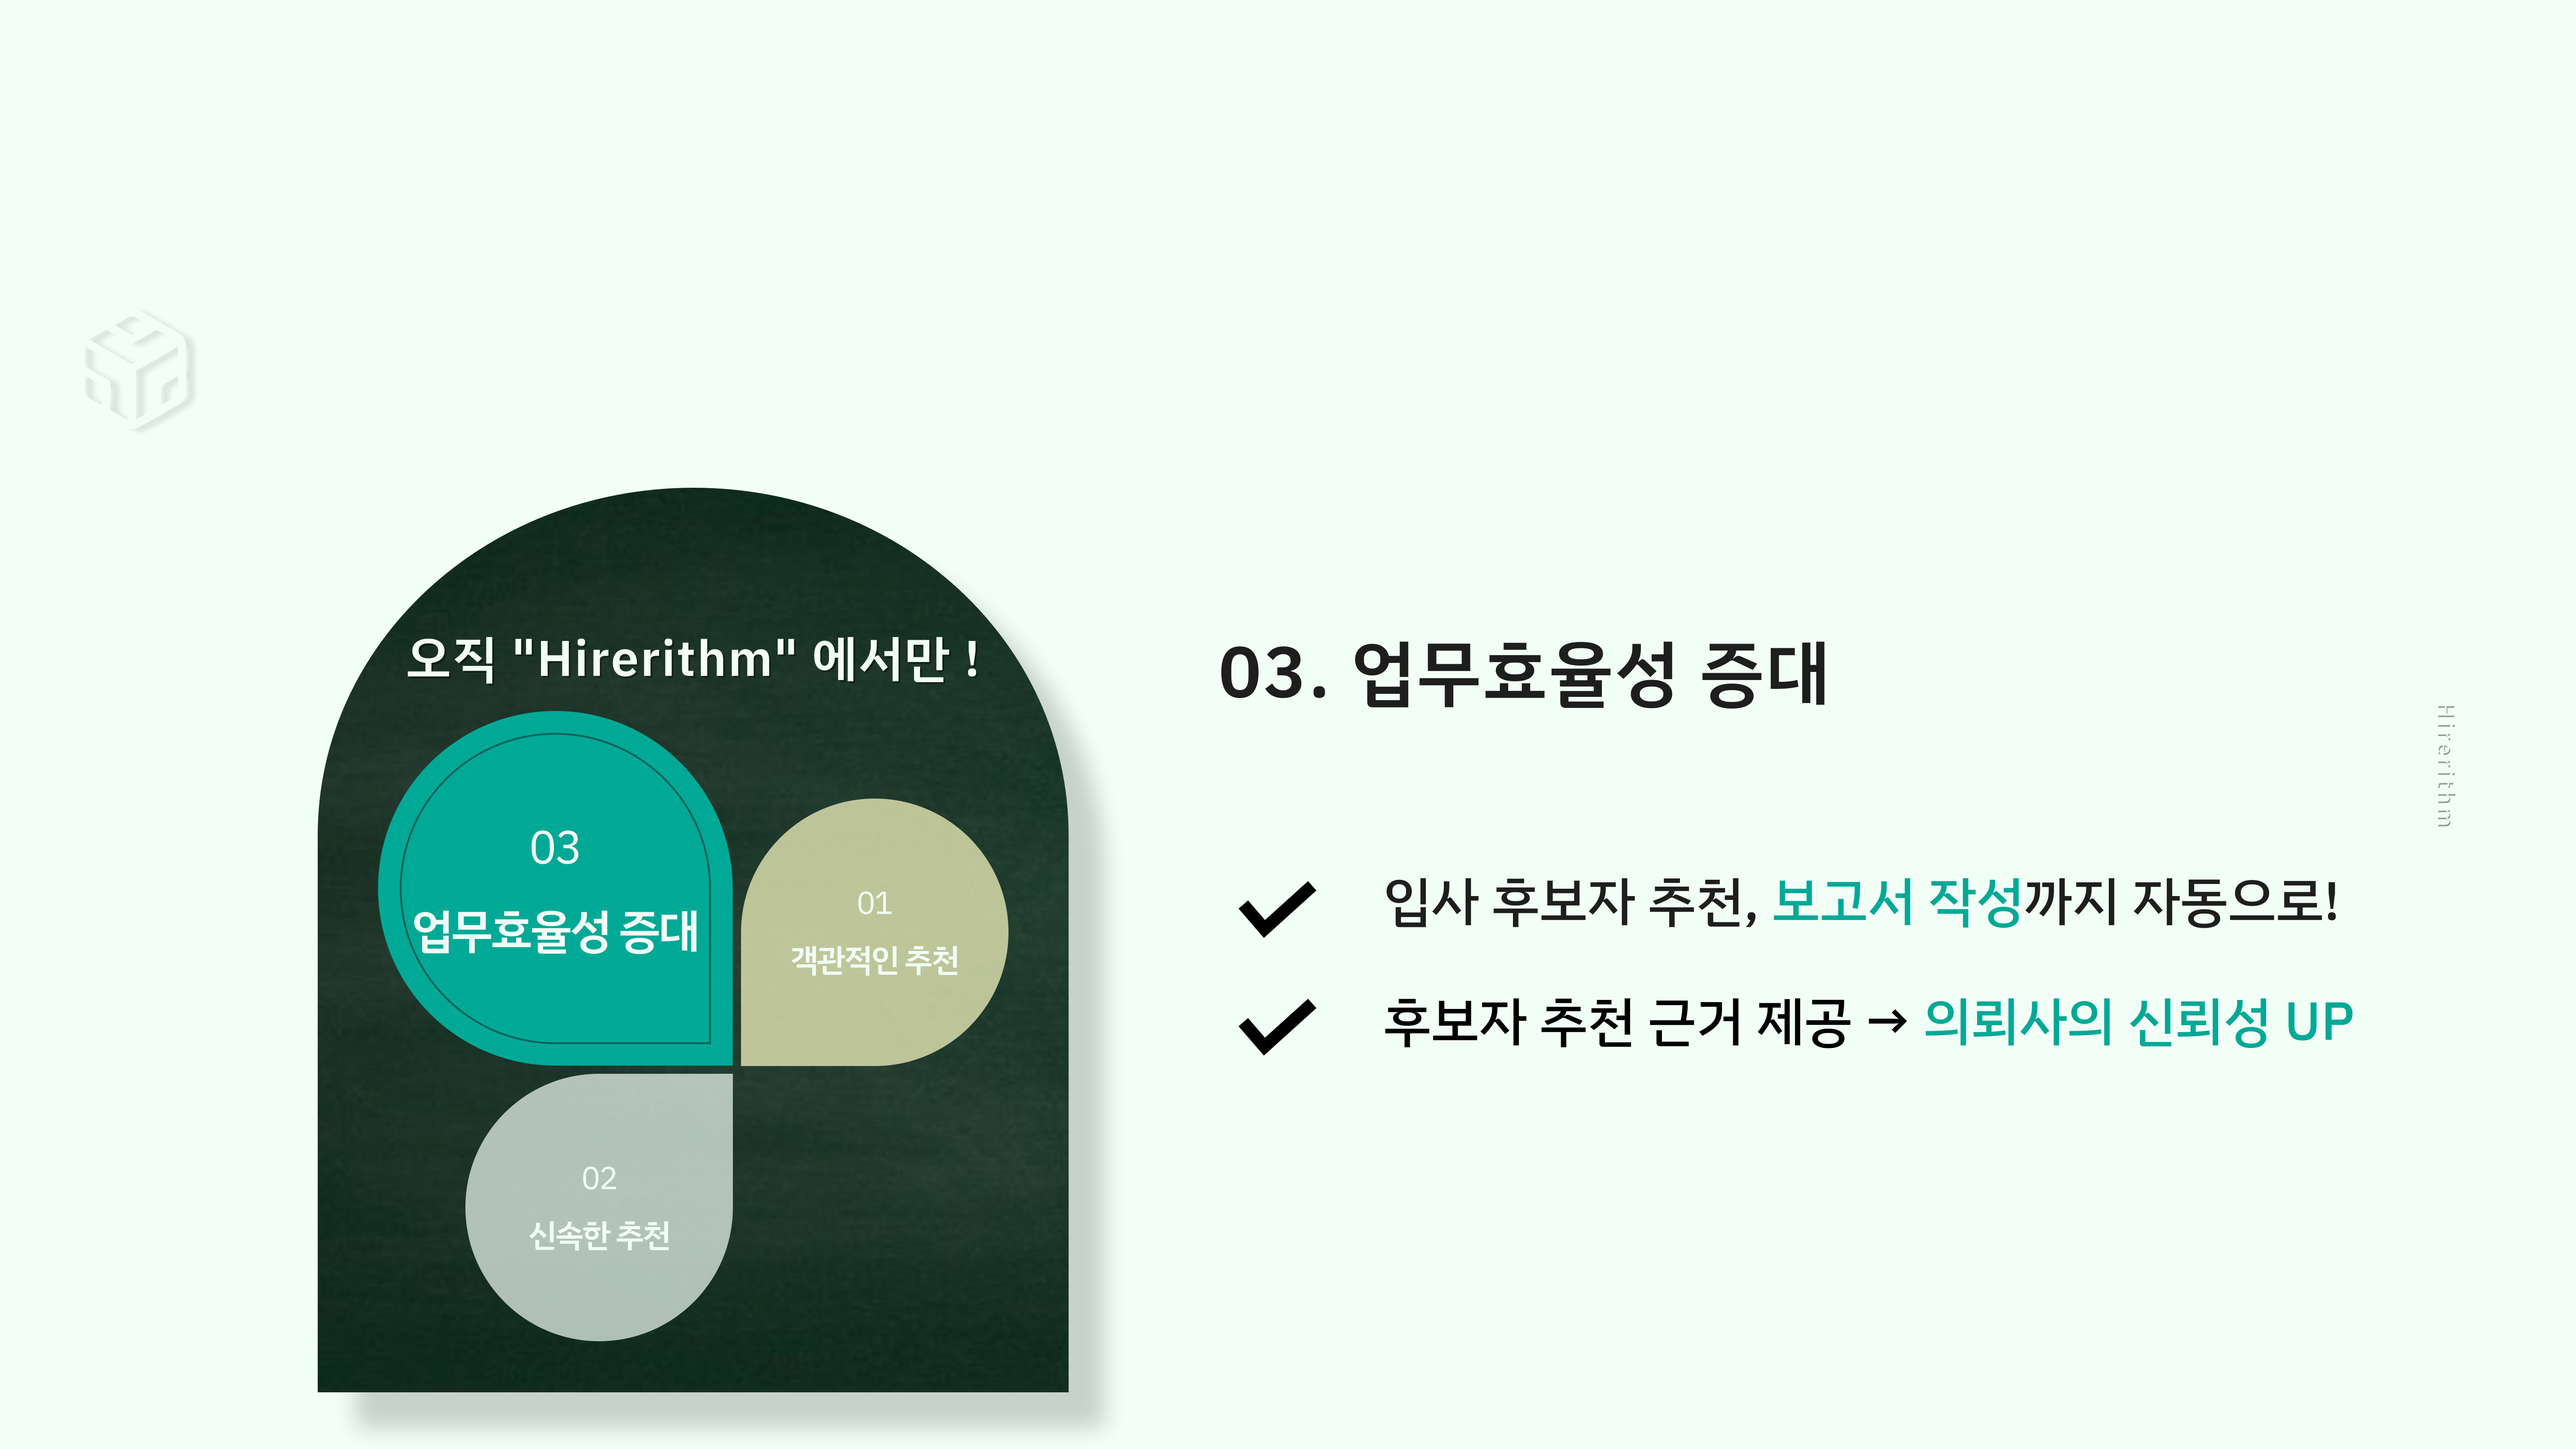
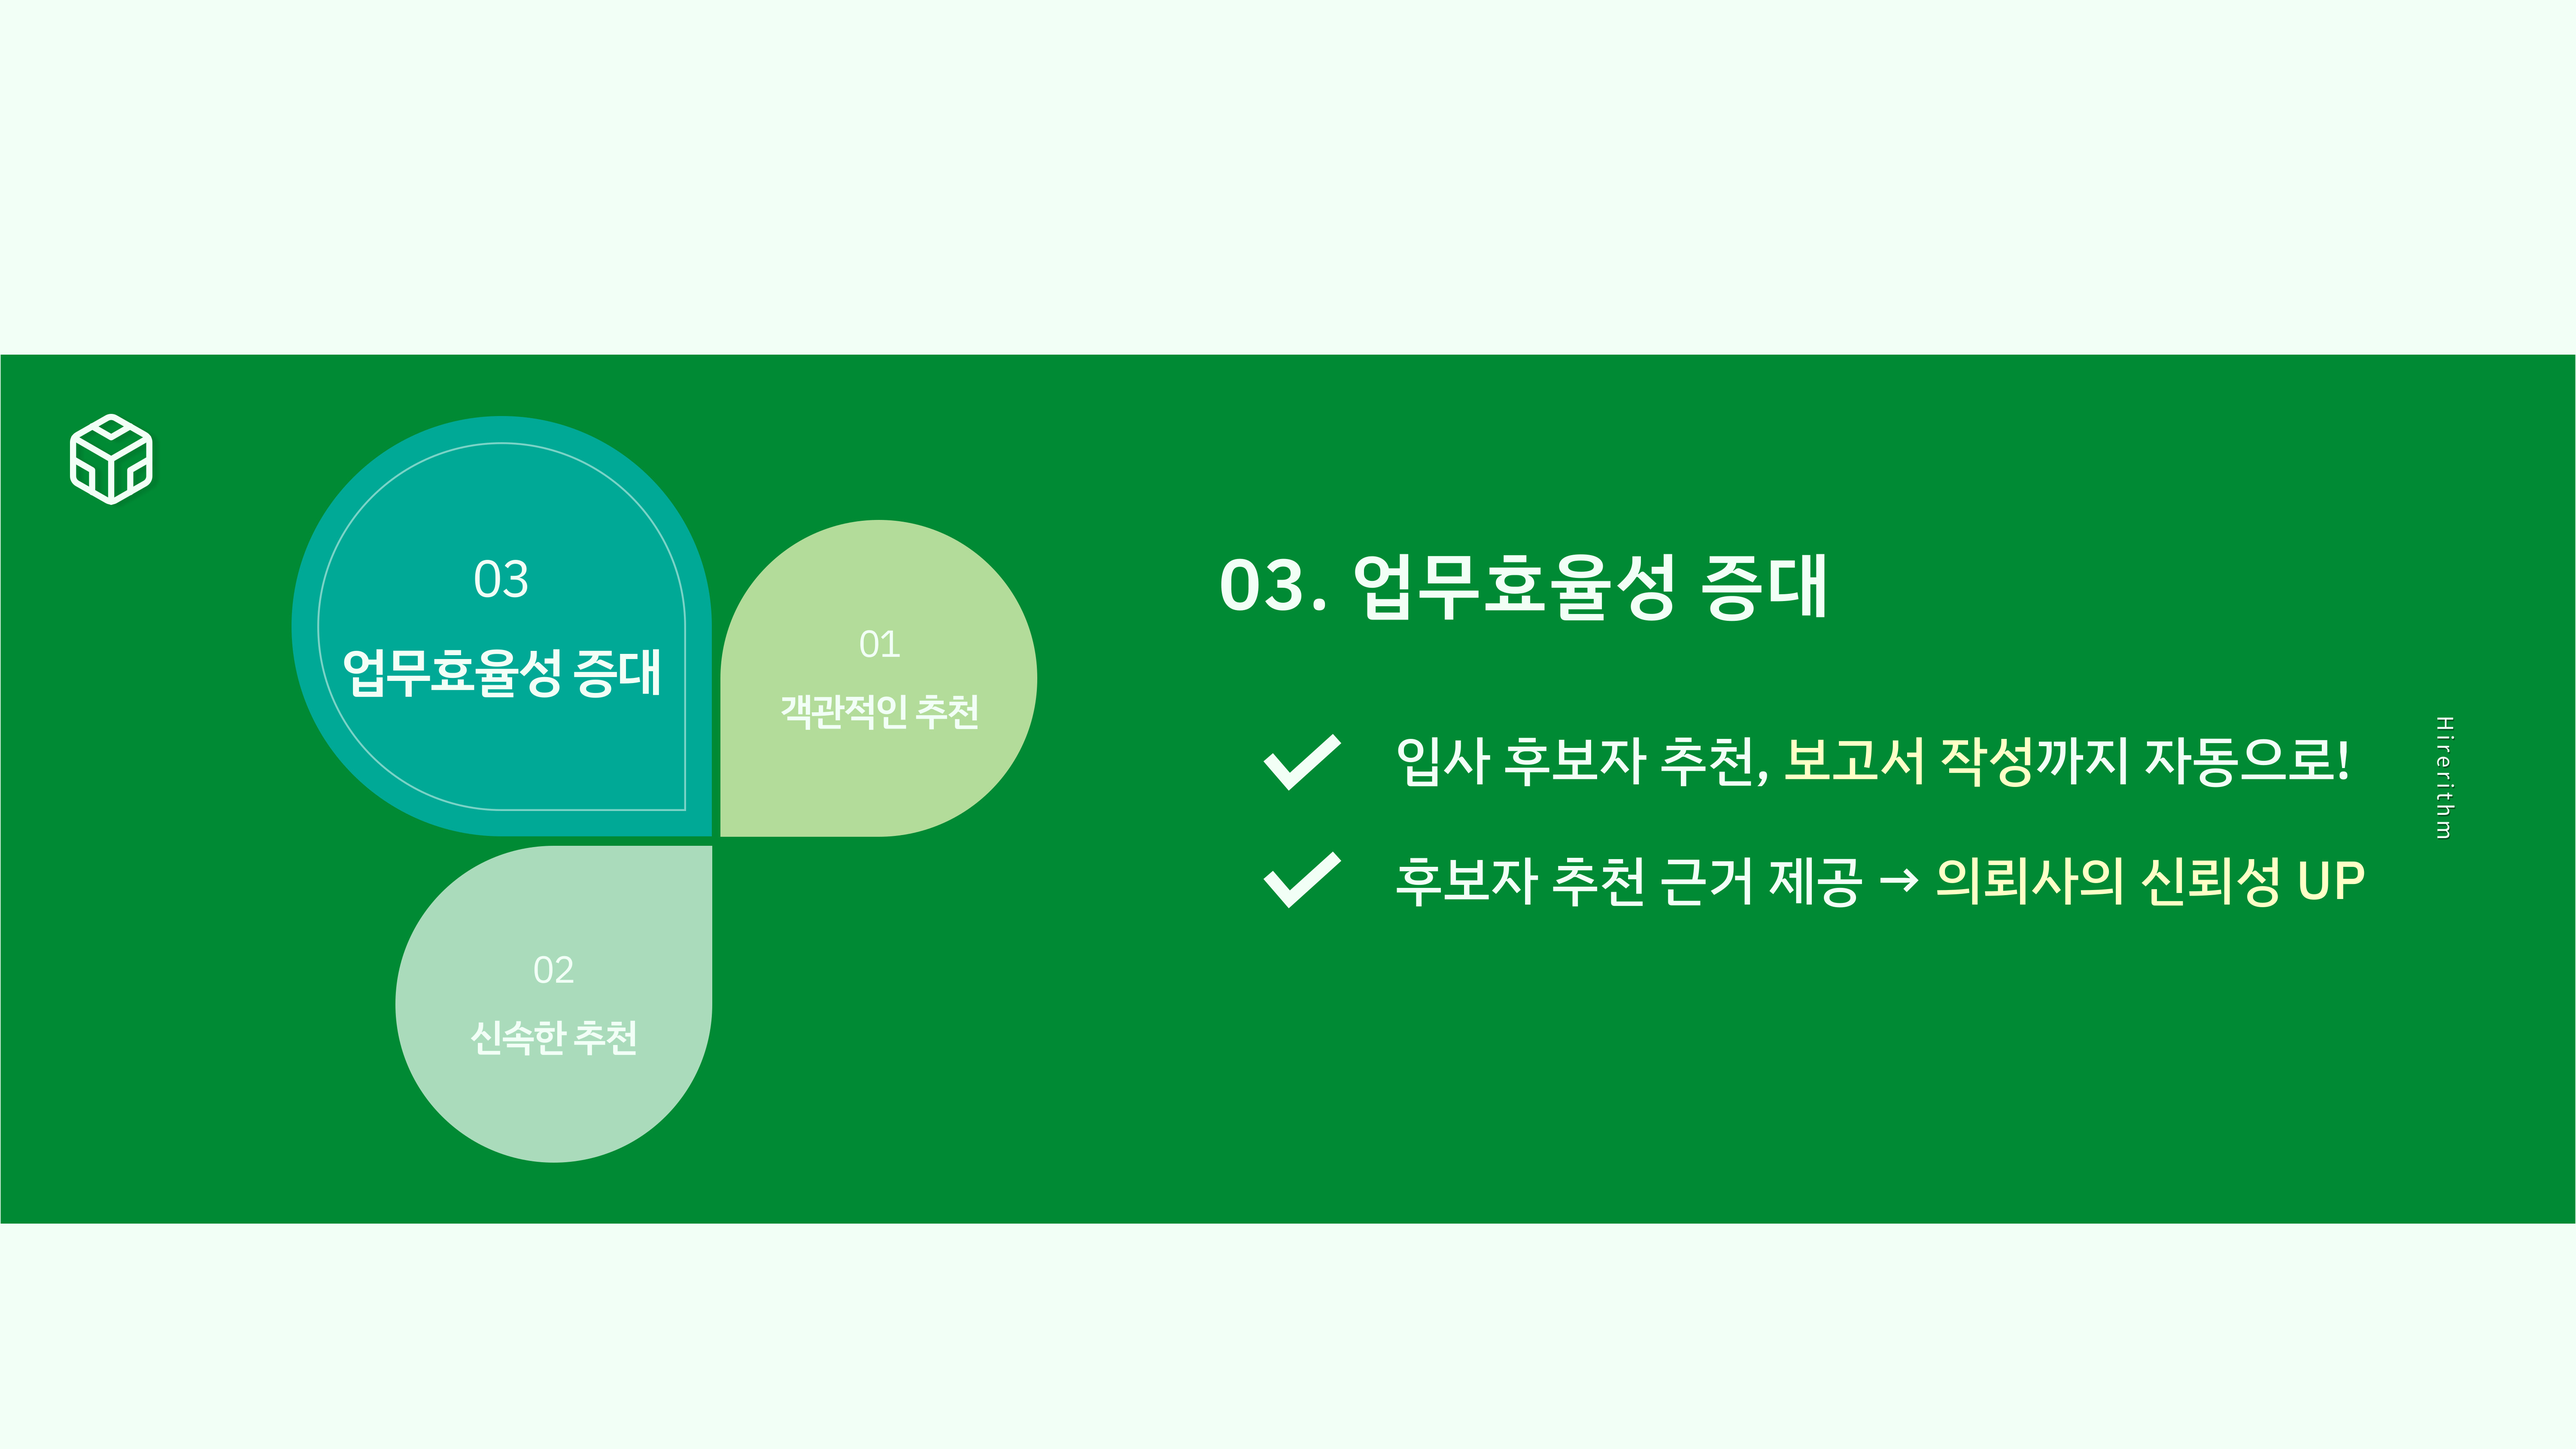
💄 #71 배너이미지 디자인, 애니메이션 수정정

diff --git a/Frontend/src/Pages/MainPages/CorporateMain.js b/Frontend/src/Pages/MainPages/CorporateMain.js
@@ -1,4 +1,4 @@
-import React, { useState } from "react";
+import React, { useState, useEffect, useCallback } from "react";
 import { useNavigate } from "react-router-dom";
 import { motion } from "framer-motion";
 import "./styles/PersonalMain.css";
@@ -18,16 +18,59 @@ const bannerData = [
   { image: BannerImage2, downIcon: DownAnimation2 },
   { image: BannerImage3, downIcon: DownAnimation2 },
   { image: BannerImage4, downIcon: DownAnimation2 },
-  { image: BannerImage5, downIcon: null }, // 마지막 슬라이드는 up 버튼만
+  { image: BannerImage5, downIcon: null },
 ];
 
 function CorporateMain() {
   const navigate = useNavigate();
   const [page, setPage] = useState(0);
   const maxPage = bannerData.length - 1;
+  const [isScrolling, setIsScrolling] = useState(false);
 
   const goNext = () => setPage((p) => Math.min(p + 1, maxPage));
   const goPrev = () => setPage((p) => Math.max(p - 1, 0));
+
+  const handleWheel = useCallback(
+    (e) => {
+      if (isScrolling) return;
+
+      if (e.deltaY > 50) {
+        // 아래로 스크롤
+        if (page < maxPage) {
+          setIsScrolling(true);
+          setPage((p) => Math.min(p + 1, maxPage));
+        }
+      } else if (e.deltaY < -50) {
+        // 위로 스크롤
+        if (page > 0) {
+          setIsScrolling(true);
+          setPage((p) => Math.max(p - 1, 0));
+        }
+      }
+    },
+    [page, maxPage, isScrolling]
+  );
+
+  useEffect(() => {
+    const handleWheelEvent = (e) => {
+      e.preventDefault();
+      handleWheel(e);
+    };
+
+    window.addEventListener("wheel", handleWheelEvent, { passive: false });
+
+    return () => {
+      window.removeEventListener("wheel", handleWheelEvent);
+    };
+  }, [handleWheel]);
+
+  // 애니메이션이 끝난 후 스크롤 가능하도록
+  useEffect(() => {
+    if (isScrolling) {
+      const timeout = setTimeout(() => setIsScrolling(false), 800); // 애니메이션 시간과 맞춤
+      return () => clearTimeout(timeout);
+    }
+  }, [isScrolling]);
 
   return (
     <div className="personal-main_container">
@@ -44,22 +87,25 @@ function CorporateMain() {
             style={{
               backgroundColor: index === 0 ? "#f2fff7" : "#E6EFEB",
               backgroundImage: `url(${banner.image})`,
-              backgroundSize: "contain",
+              backgroundSize: "cover",
               backgroundPosition: "center",
               aspectRatio: "16 / 9",
             }}
           >
-            {/* ↑ 이전으로 버튼 (첫 페이지 제외) */}
             {index !== 0 && (
               <div className="banner-top-button-wrapper">
                 <button className="up-scroll-button" onClick={goPrev}>
-                  <motion.img src={UpAnimation} alt="↑ 이전으로" />
+                  <motion.img
+                    src={UpAnimation}
+                    alt="↑ 이전으로"
+                    animate={{ y: [0, 10, 0] }}
+                    transition={{ duration: 1.2, repeat: Infinity }}
+                  />
                 </button>
               </div>
             )}
 
             <div className="banner-button-wrapper">
-              {/* ↓ 다음으로 버튼 (마지막 제외) */}
               {index !== maxPage && (
                 <button className="down-scroll-button" onClick={goNext}>
                   <motion.img
@@ -71,17 +117,14 @@ function CorporateMain() {
                 </button>
               )}
 
-              {/* 마지막 배너 → 이력서 등록 + ↑ 버튼 */}
               {index === maxPage && (
-                <>
-                  <button
-                    className="resume-button"
-                    onClick={() => navigate("/user/resume")}
-                  >
-                    <img src={ResumeRegistrationIcon} alt="📄" />
-                    <p>이력서 등록하러 가기</p>
-                  </button>
-                </>
+                <button
+                  className="resume-button"
+                  onClick={() => navigate("/user/resume")}
+                >
+                  <img src={ResumeRegistrationIcon} alt="📄" />
+                  <p>이력서 등록하러 가기</p>
+                </button>
               )}
             </div>
           </section>

diff --git a/Frontend/src/Component/Navigation/navigation.css b/Frontend/src/Component/Navigation/navigation.css
@@ -3,37 +3,32 @@
 }
 
 /* 네비게이션바 */
-.recommend-wrapper {
-  display: flex;
-  flex-direction: column;
-  align-items: center;
-  width: 100%;
-}
-
 .navigation-wrapper {
   display: flex;
   justify-content: space-between;
   align-items: center;
-  width: 100%;
-  padding: 30px 20px;
-  box-shadow: 0 4px 12px rgba(0, 0, 0, 0.2) !important; /* 추가: 진한 그림자 */
-  z-index: 1000;
   position: fixed;
-  background-color: #f2fff7;
+  top: 0;
+  left: 0;
+  right: 0;
+  height: 100px; /* 원하는 높이 (패딩 대신 높이로 설정) */
+  padding: 0 20px; /* 위아래 패딩은 제거하고 좌우만 남김 */
+  box-shadow: 0 4px 12px rgba(0, 0, 0, 0.2) !important;
+  background-color: #fff;
+  z-index: 100; /* 살짝 높여도 좋음 */
+  box-sizing: border-box; /* 추가 - 패딩 포함 계산 */
 }
 
 .navigation-logo img {
   height: 40px;
   padding-left: 20px;
   cursor: pointer;
-  z-index: 1000;
 }
 
 .navigation-buttons {
   display: flex;
   gap: 30px;
   padding-right: 60px;
-  z-index: 1000;
 }
 
 .navigation-buttons button {
@@ -45,7 +40,6 @@
   transition: 0.3s;
   border-radius: 10px;
   font-weight: 500;
-  z-index: 1000;
 }
 
 .navigation-buttons button:hover {
@@ -81,7 +75,6 @@
   border-radius: 8px;
   min-width: 150px;
   box-shadow: 0 2px 8px rgba(0, 0, 0, 0.15);
-  z-index: 100;
 }
 
 .dropdown-item {

diff --git a/Frontend/src/Component/Navigation/NotMemberNavigation.js b/Frontend/src/Component/Navigation/NotMemberNavigation.js
@@ -8,14 +8,13 @@ const Navigation = () => {
   const location = useLocation();
   const [hoverMenu, setHoverMenu] = useState(null);
 
-  // ✅ 하위 경로까지 포함하도록 수정
+  // 하위 경로까지 포함하도록 수정
   const isActive = (path) => {
     if (path === "/") {
       return location.pathname === "/";
     }
     return location.pathname.startsWith(path);
   };
-  
 
   return (
     <nav className="navigation-wrapper">
@@ -105,7 +104,11 @@ const Navigation = () => {
           onMouseLeave={() => setHoverMenu(null)}
         >
           <button
-            className={isActive("/login") || isActive("/signup") || isActive("/find_") ? "active" : ""}
+            className={
+              isActive("/login") || isActive("/signup") || isActive("/find_")
+                ? "active"
+                : ""
+            }
             onClick={() => navigate("/login")}
           >
             로그인

diff --git a/Frontend/src/Pages/MainPages/styles/PersonalMain.css b/Frontend/src/Pages/MainPages/styles/PersonalMain.css
@@ -3,7 +3,6 @@
   display: flex;
   flex-direction: column;
   width: 100%;
-  overflow: hidden; /* 스크롤 방지 */
   height: 100vh;
   position: relative;
 }
@@ -28,12 +27,11 @@
 
 /* 배너 하단 버튼 */
 .banner-button-wrapper {
-  margin-bottom: 1rem;
-  display: flex;
-  justify-content: center;
-  align-items: center;
-  width: 100%;
-  gap: 20px;
+  position: absolute;
+  bottom: 10px;
+  left: 50%;
+  transform: translateX(-50%);
+  z-index: 2;
 }
 
 /* 이력서 등록 버튼 */
@@ -76,7 +74,7 @@
 }
 
 .up-scroll-button img {
-  width: 80px;
+  width: 120px;
 }
 
 .down-scroll-button img {
@@ -89,7 +87,7 @@
 
 .banner-top-button-wrapper {
   position: absolute;
-  top: 130px;
+  top: 110px;
   left: 50%;
   transform: translateX(-50%);
   z-index: 2;
